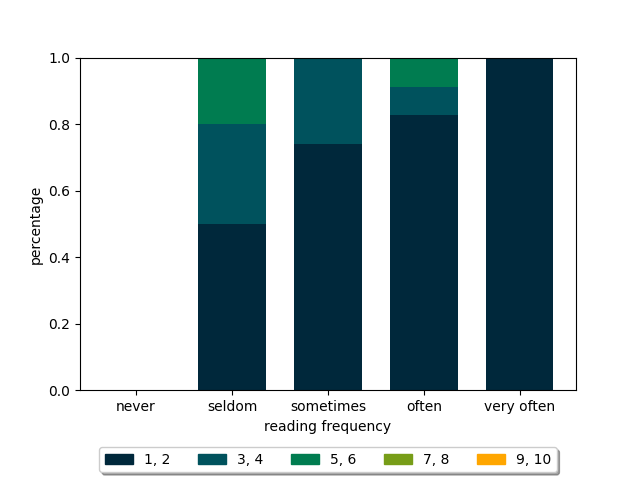
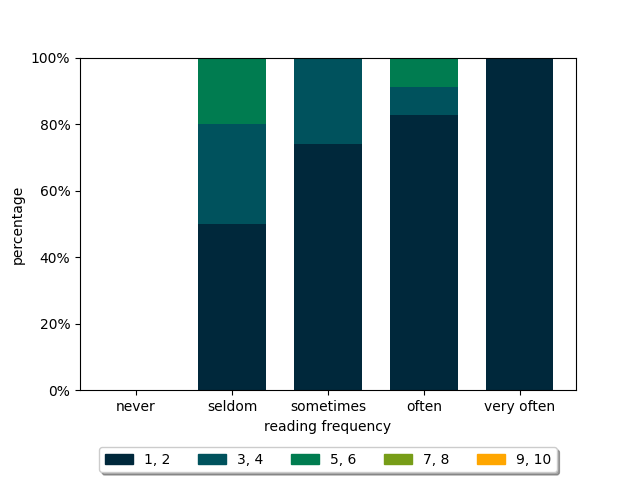
changed some small things on the axes

diff --git a/create_bar_charts.py b/create_bar_charts.py
@@ -679,7 +679,7 @@ def new_frequency_stress_stacked_bar_chart():
     ax.bar(labels, scale_78, width, bottom=np.array(scale_12)+np.array(scale_34)+np.array(scale_56), label='7, 8', color='#779d18')
     ax.bar(labels, scale_910, width, bottom=np.array(scale_12)+np.array(scale_34)+np.array(scale_56)+np.array(scale_78), label='9, 10', color='#ffa600')
 
-    # ax.set_yticklabels(['0%', '20%', '40%', '60%', '80%', '100%'])
+    ax.set_yticklabels(['0%', '20%', '40%', '60%', '80%', '100%'])
     ax.set_ylabel('percentage')
     ax.set_xlabel('reading frequency')
     
@@ -714,7 +714,7 @@ def new_frequency_stress_stacked_bar_chart():
     ax.bar(labels, scale_78, width, bottom=np.array(scale_12)+np.array(scale_34)+np.array(scale_56), label='7, 8', color='#779d18')
     ax.bar(labels, scale_910, width, bottom=np.array(scale_12)+np.array(scale_34)+np.array(scale_56)+np.array(scale_78), label='9, 10', color='#ffa600')
 
-    # ax.set_yticklabels(['0%', '20%', '40%', '60%', '80%', '100%'])
+    ax.set_yticklabels(['0%', '20%', '40%', '60%', '80%', '100%'])
     ax.set_ylabel('percentage')
     ax.set_xlabel('reading frequency')
     

diff --git a/create_histograms.py b/create_histograms.py
@@ -241,7 +241,7 @@ def create_histogram(which_histogram):
         # plt.xticks(np.arange(9,61,1))
         ax.set_xticks([1, 2, 3, 4, 5, 6, 7, 8, 9, 10])
         ax.set_xticklabels(['1', '2', '3', '4', '5', '6','7', '8', '9', '10'])
-        ax.set_yticks([0, 5, 10, 15, 20])
+        ax.set_yticks([0, 5, 10, 15, 20, 25, 30])
         ax.set_ylabel('amount')
         ax.set_xlabel('stress *')
 
@@ -300,8 +300,8 @@ def main():
     # create_histogram('symptoms')
     # create_histogram('snacks')
     # create_histogram('motivation')
-    # create_histogram('stress')
-    create_histogram('frequence book')
+    create_histogram('stress')
+    # create_histogram('frequence book')
 
 
 if __name__ ==  main():
